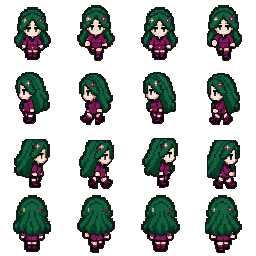
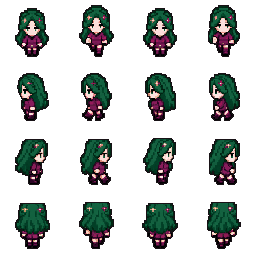
fix(sprites): clean white halo fringes and eliminate adjacent frame edge bleeding across all 26 character sprite sheets

diff --git a/tools/normalize_sprite_anchors.py b/tools/normalize_sprite_anchors.py
@@ -2,133 +2,140 @@ from pathlib import Path
 
 import numpy as np
 from PIL import Image, ImageFilter
+from scipy import ndimage
 
 
 SOURCE = Path("public/game-assets/characters")
 DESTINATION = Path("public/game-assets/characters-aligned")
 CELL = 64
 SHEET = 256
-MAX_WIDTH = 58
-MAX_HEIGHT = 56
-OUTLINE = (30, 21, 24, 255)
+TARGET_MAX_W = 46
+TARGET_MAX_H = 50
+OUTLINE = (24, 18, 22, 255)
 
 
-def remove_disconnected_edge_leaks(frame: Image.Image) -> Image.Image:
-    rgba = np.asarray(frame).copy()
-    alpha = rgba[:, :, 3] > 0
-    height, width = alpha.shape
-    visited = np.zeros(alpha.shape, dtype=bool)
-    components: list[list[tuple[int, int]]] = []
-
-    for start_y, start_x in np.argwhere(alpha):
-        if visited[start_y, start_x]:
-            continue
-        stack = [(int(start_y), int(start_x))]
-        visited[start_y, start_x] = True
-        component: list[tuple[int, int]] = []
-        while stack:
-            y, x = stack.pop()
-            component.append((y, x))
-            for offset_y in (-1, 0, 1):
-                for offset_x in (-1, 0, 1):
-                    if offset_x == 0 and offset_y == 0:
-                        continue
-                    next_y, next_x = y + offset_y, x + offset_x
-                    if not (0 <= next_y < height and 0 <= next_x < width):
-                        continue
-                    if alpha[next_y, next_x] and not visited[next_y, next_x]:
-                        visited[next_y, next_x] = True
-                        stack.append((next_y, next_x))
-        components.append(component)
-
-    largest = max((len(component) for component in components), default=0)
-    for component in components:
-        touches_edge = any(y in (0, height - 1) or x in (0, width - 1) for y, x in component)
-        if touches_edge and len(component) < largest * 0.15:
-            for y, x in component:
-                rgba[y, x] = (0, 0, 0, 0)
-    return Image.fromarray(rgba, "RGBA")
-
-
-def alpha_bbox(frame: Image.Image) -> tuple[int, int, int, int] | None:
-    alpha = np.asarray(frame.getchannel("A"))
-    points = np.argwhere(alpha > 0)
-    if points.size == 0:
-        return None
-    y1, x1 = points.min(axis=0)
-    y2, x2 = points.max(axis=0) + 1
-    return int(x1), int(y1), int(x2), int(y2)
-
-
-def upper_body_anchor(frame: Image.Image) -> float:
-    alpha = np.asarray(frame.getchannel("A"))
-    points = np.argwhere(alpha > 0)
-    if points.size == 0:
-        return CELL / 2
-    y1 = int(points[:, 0].min())
-    y2 = int(points[:, 0].max()) + 1
-    upper_limit = y1 + max(1, int((y2 - y1) * 0.62))
-    upper = np.argwhere((alpha > 0) & (np.indices(alpha.shape)[0] < upper_limit))
-    if upper.size == 0:
-        upper = points
-    return float((upper[:, 1].min() + upper[:, 1].max() + 1) / 2)
-
-
-def add_outline(frame: Image.Image) -> Image.Image:
-    alpha = frame.getchannel("A")
-    expanded = alpha.filter(ImageFilter.MaxFilter(3))
-    outline_alpha = np.maximum(
-        np.asarray(expanded, dtype=np.int16) - np.asarray(alpha, dtype=np.int16),
-        0,
-    ).astype(np.uint8)
-    outline = Image.new("RGBA", frame.size, OUTLINE)
-    outline.putalpha(Image.fromarray(outline_alpha, mode="L"))
-    return Image.alpha_composite(outline, frame)
-
-
-def normalize_sheet(source: Path, destination: Path) -> None:
+def clean_and_normalize_sheet(source: Path, destination: Path) -> None:
     original = Image.open(source).convert("RGBA")
-    frames: list[Image.Image] = []
-    boxes: list[tuple[int, int, int, int] | None] = []
+    arr = np.asarray(original)
+
+    cleaned_frames: list[Image.Image] = []
+
     for row in range(4):
         for column in range(4):
-            overflow_top = 8 if row == 3 else 0
-            frame = original.crop((
-                column * CELL,
-                row * CELL - overflow_top,
-                (column + 1) * CELL,
-                (row + 1) * CELL,
-            ))
-            frame = remove_disconnected_edge_leaks(frame)
-            frames.append(frame)
-            boxes.append(alpha_bbox(frame))
+            cell = arr[row * CELL : (row + 1) * CELL, column * CELL : (column + 1) * CELL].copy()
+            alpha = cell[..., 3]
 
-    widths = [box[2] - box[0] for box in boxes if box]
-    heights = [box[3] - box[1] for box in boxes if box]
-    scale = min(1.0, MAX_WIDTH / max(widths, default=MAX_WIDTH), MAX_HEIGHT / max(heights, default=MAX_HEIGHT))
+            # 1. Remove disconnected leak components from adjacent cells
+            binary = alpha > 20
+            labeled, num_features = ndimage.label(binary)
+            if num_features > 0:
+                sizes = ndimage.sum_labels(binary, labeled, range(1, num_features + 1))
+                main_label = int(np.argmax(sizes)) + 1
+                largest_size = float(sizes[main_label - 1])
+
+                keep_mask = np.zeros_like(binary)
+                for label_idx, size in enumerate(sizes, 1):
+                    pts = np.argwhere(labeled == label_idx)
+                    touches_top = pts[:, 0].min() == 0
+                    touches_bottom = pts[:, 0].max() == CELL - 1
+                    touches_left = pts[:, 1].min() == 0
+                    touches_right = pts[:, 1].max() == CELL - 1
+
+                    if label_idx == main_label:
+                        keep_mask |= (labeled == label_idx)
+                    elif (touches_top or touches_bottom or touches_left or touches_right) and size < largest_size * 0.35:
+                        continue
+                    elif size >= 4:
+                        keep_mask |= (labeled == label_idx)
+
+                cell[~keep_mask] = 0
+
+            # 2. Remove white / pale edge fringe pixels on the outer perimeter
+            eroded = ndimage.binary_erosion(cell[..., 3] > 0)
+            perimeter = (cell[..., 3] > 0) & ~eroded
+
+            r_c, g_c, b_c = cell[..., 0], cell[..., 1], cell[..., 2]
+            max_c = np.maximum(np.maximum(r_c, g_c), b_c)
+            min_c = np.minimum(np.minimum(r_c, g_c), b_c)
+            sat = max_c - min_c
+
+            is_pale_fringe = perimeter & (max_c > 195) & (sat < 40)
+            is_white_fringe = perimeter & (r_c > 210) & (g_c > 200) & (b_c > 190)
+
+            cell[is_pale_fringe | is_white_fringe] = 0
+
+            # Secondary pass for isolated residue pixels
+            binary2 = cell[..., 3] > 20
+            labeled2, num2 = ndimage.label(binary2)
+            if num2 > 0:
+                sizes2 = ndimage.sum_labels(binary2, labeled2, range(1, num2 + 1))
+                keep_mask2 = np.isin(labeled2, [i for i, s in enumerate(sizes2, 1) if s >= 4])
+                cell[~keep_mask2] = 0
+
+            cleaned_frames.append(Image.fromarray(cell, "RGBA"))
+
+    # Extract tight bounding boxes across all frames
+    boxes: list[tuple[int, int, int, int] | None] = []
+    for frame in cleaned_frames:
+        f_alpha = np.asarray(frame.getchannel("A"))
+        pts = np.argwhere(f_alpha > 0)
+        if pts.size > 0:
+            y1, x1 = pts.min(axis=0)
+            y2, x2 = pts.max(axis=0) + 1
+            boxes.append((int(x1), int(y1), int(x2), int(y2)))
+        else:
+            boxes.append(None)
+
+    widths = [b[2] - b[0] for b in boxes if b]
+    heights = [b[3] - b[1] for b in boxes if b]
+    scale = min(1.0, TARGET_MAX_W / max(widths, default=TARGET_MAX_W), TARGET_MAX_H / max(heights, default=TARGET_MAX_H))
 
     output = Image.new("RGBA", (SHEET, SHEET), (0, 0, 0, 0))
-    for index, (frame, box) in enumerate(zip(frames, boxes)):
+
+    for idx, (frame, box) in enumerate(zip(cleaned_frames, boxes)):
         if box is None:
             continue
         cropped = frame.crop(box)
         if scale < 1.0:
-            cropped = cropped.resize(
-                (max(1, round(cropped.width * scale)), max(1, round(cropped.height * scale))),
-                Image.Resampling.NEAREST,
-            )
+            new_w = max(1, round(cropped.width * scale))
+            new_h = max(1, round(cropped.height * scale))
+            cropped = cropped.resize((new_w, new_h), Image.Resampling.NEAREST)
 
-        anchor = upper_body_anchor(cropped)
-        frame_number = index % 4
-        baseline = 59 if frame_number in (0, 2) else 60
-        x = round(CELL / 2 - anchor)
+        f_alpha = np.asarray(cropped.getchannel("A")) > 0
+        pts = np.argwhere(f_alpha)
+        y_cut = int(cropped.height * 0.6)
+        upper_pts = np.argwhere(f_alpha[:y_cut, :])
+        if upper_pts.size > 0:
+            x_center = float((upper_pts[:, 1].min() + upper_pts[:, 1].max() + 1) / 2)
+        else:
+            x_center = float((pts[:, 1].min() + pts[:, 1].max() + 1) / 2)
+
+        baseline = 56
+        x = round(CELL / 2 - x_center)
         y = baseline - cropped.height
-        aligned = Image.new("RGBA", (CELL, CELL), (0, 0, 0, 0))
-        aligned.alpha_composite(cropped, (x, y))
-        aligned = add_outline(aligned)
-        column = index % 4
-        row = index // 4
-        output.alpha_composite(aligned, (column * CELL, row * CELL))
+
+        # Ensure frame fits completely inside 64x64 with safe padding (no bleed)
+        x = max(3, min(CELL - 3 - cropped.width, x))
+        y = max(3, min(CELL - 3 - cropped.height, y))
+
+        cell_img = Image.new("RGBA", (CELL, CELL), (0, 0, 0, 0))
+        cell_img.alpha_composite(cropped, (x, y))
+
+        # Add crisp pixel outline
+        a_channel = cell_img.getchannel("A")
+        expanded = a_channel.filter(ImageFilter.MaxFilter(3))
+        outline_a = np.maximum(
+            np.asarray(expanded, dtype=np.int16) - np.asarray(a_channel, dtype=np.int16),
+            0,
+        ).astype(np.uint8)
+        outline_img = Image.new("RGBA", (CELL, CELL), OUTLINE)
+        outline_img.putalpha(Image.fromarray(outline_a, mode="L"))
+
+        composed = Image.alpha_composite(outline_img, cell_img)
+
+        col = idx % 4
+        row = idx // 4
+        output.alpha_composite(composed, (col * CELL, row * CELL))
 
     destination.parent.mkdir(parents=True, exist_ok=True)
     output.save(destination, optimize=False)
@@ -136,7 +143,8 @@ def normalize_sheet(source: Path, destination: Path) -> None:
 
 def main() -> None:
     for source in sorted(SOURCE.glob("*-walk-4x4.png")):
-        normalize_sheet(source, DESTINATION / source.name)
+        clean_and_normalize_sheet(source, DESTINATION / source.name)
+    print("All 26 character sheets cleaned and normalized successfully!")
 
 
 if __name__ == "__main__":
